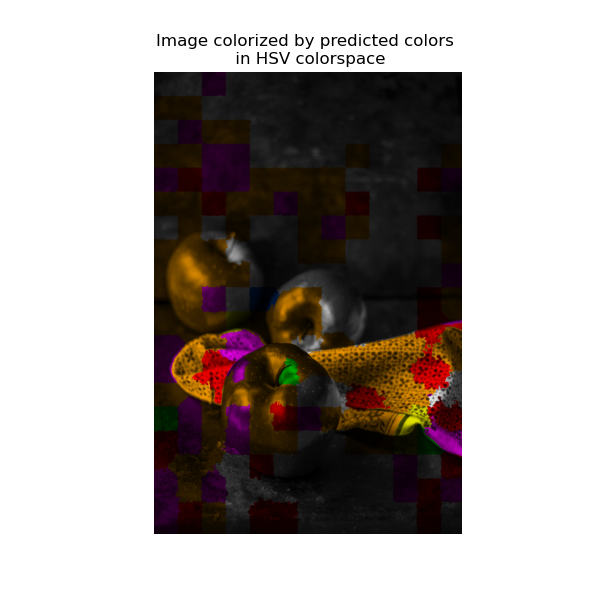
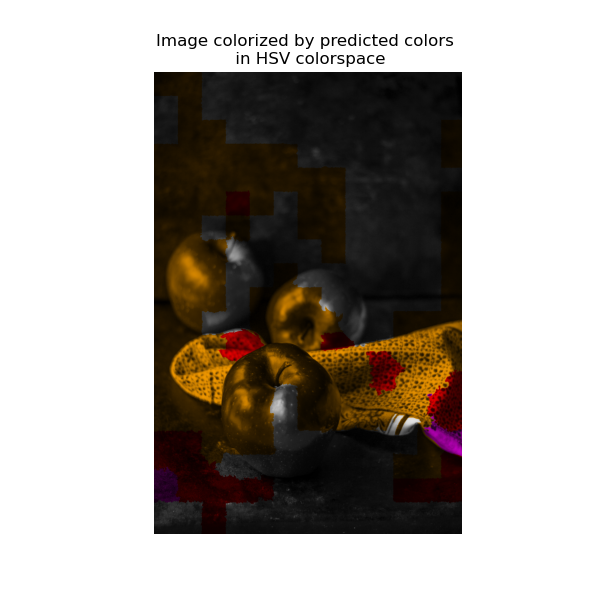
Making superpixel color prediction better, and uploading the better colorized images

diff --git a/program/superpixel_segmentations.py b/program/superpixel_segmentations.py
@@ -1,6 +1,7 @@
 import matplotlib.pyplot as plt
 import numpy as np
 import cv2
+import random
 
 #modules to get segments
 from skimage.filters import sobel
@@ -51,7 +52,6 @@ def get_segments_color(image, segments, cnn_model):
     :param cnn_model: the CNN model for the prediction
     :return: the color label map and the quantity of the segments for colorization purposes
     """
-    
     segments_quantity = len(np.unique(segments))
     
     color_labels = np.zeros((segments_quantity, 13))
@@ -69,19 +69,27 @@ def get_segments_color(image, segments, cnn_model):
         
         #getting the indexes of the pixels from the segment
         indexes = np.where(mask == 255)
-        x = indexes[0][0]
-        y = indexes[1][0]
         
-        if(x <= (height-px) and y <= (width-px)):
-            test_window = image[x:x+px, y:y+px]
+        index_list = indexes[0].tolist()
+        
+        if(len(index_list) >= 20):
+            for j in range(20):
+    
+                idx = random.sample(range(0, len(index_list)), 20)
             
-            test_window = test_window/255
-            
-            test_window = test_window.reshape((15, 15))
-            test_window = np.expand_dims(test_window, axis = 0)
-            
-            color_label = np.argmax(cnn_model.predict(test_window))
+                x = indexes[0][idx[j]]
+                y = indexes[1][idx[j]]
+                
+                if(x <= (height-px) and y <= (width-px)):
+                    test_window = image[x:x+px, y:y+px]
                     
-            color_labels[i][color_label] = color_labels[i][color_label] + 1
+                    test_window = test_window/255
+                    
+                    test_window = test_window.reshape((15, 15))
+                    test_window = np.expand_dims(test_window, axis = 0)
+                    
+                    color_label = np.argmax(cnn_model.predict(test_window))
+                            
+                    color_labels[i][color_label] = color_labels[i][color_label] + 1
         
     return color_labels, segments_quantity
